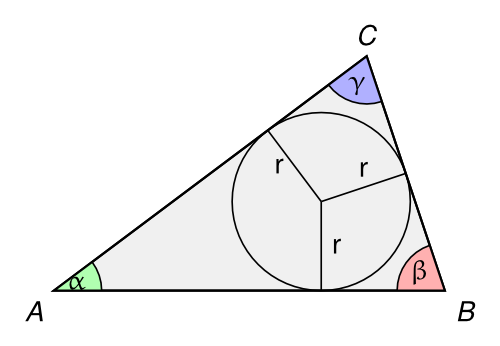
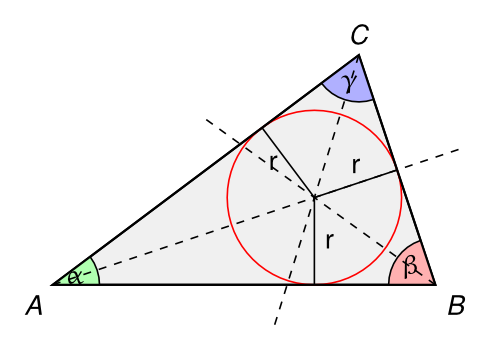
tikz/triangle-inscribed-circle: added bisectors

diff --git a/tikz/triangle-inscribed-circle/triangle-inscribed-circle.tex b/tikz/triangle-inscribed-circle/triangle-inscribed-circle.tex
@@ -39,7 +39,7 @@
     % \tkzLabelSegment[right](B,C){$a$}
 
     \tkzDefCircle[in,/tikz/overlay](A,B,C)\tkzGetPoint{I}\tkzGetLength{rIN}
-    \tkzDrawCircle[R](I,\rIN pt)
+    \tkzDrawCircle[R,color=red](I,\rIN pt)
 
     \tkzInterLC[R,/tikz/overlay](A,B)(I,\rIN pt)
     \tkzGetSecondPoint{ABq}
@@ -50,6 +50,20 @@
     \tkzInterLC[R,/tikz/overlay](C,A)(I,\rIN pt)
     \tkzGetSecondPoint{CAq}
 
+    % Get bisectors
+    \tkzDefLine[bisector,/tikz/overlay](B,A,C) \tkzGetPoint{a}
+    \tkzInterLL(A,a)(B,C) \tkzGetPoint{a2}
+    \tkzDrawLine[add=0 and 0.2,dashed](A,a2)
+
+    \tkzDefLine[bisector,/tikz/overlay](A,C,B) \tkzGetPoint{c}
+    \tkzInterLL(C,c)(A,B) \tkzGetPoint{c2}
+    \tkzDrawLine[add=0 and 0.2,dashed](C,c2)
+
+    \tkzDefLine[bisector,/tikz/overlay](C,B,A) \tkzGetPoint{b}
+    \tkzInterLL(B,b)(A,C) \tkzGetPoint{b2}
+    \tkzDrawLine[add=0 and 0.2,dashed](B,b2)
+
+    % Draw segments
     \tkzDrawSegments(I,ABq I,BCq I,CAq)
     \tkzLabelSegment[right](I,ABq){r}
     \tkzLabelSegment[above](I,BCq){r}
